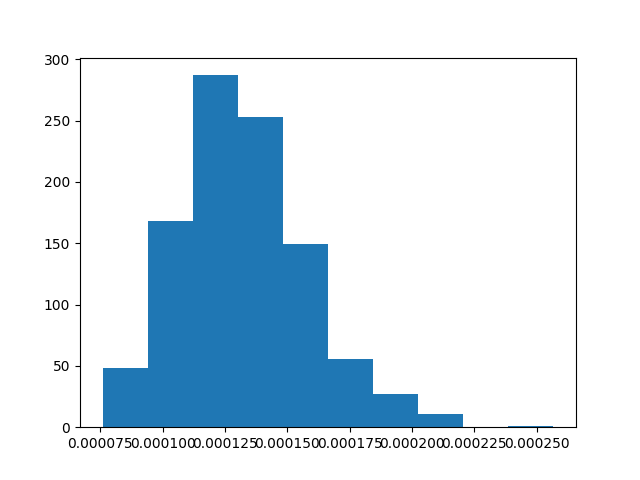
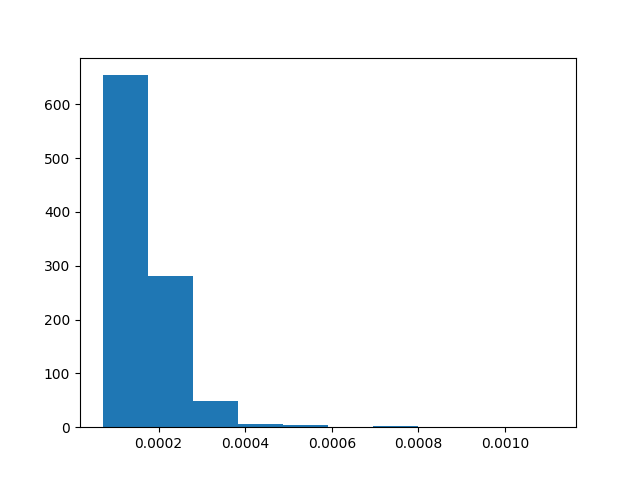
Added GPU acceleration. Increased the number of points. Visualizations are officially 🔥

diff --git a/main.py b/main.py
@@ -1,11 +1,10 @@
 from utils import *
 import matplotlib.pyplot as plt
 from functools import partial
-from multiprocessing import Pool
-import faiss 
 from indexing.faiss_utils import distance_to_centroid_faiss
-from indexing.faiss_indexers import DenseHNSWFlatIndexer
+from indexing.faiss_indexers import DenseFlatIndexer
 from tqdm import tqdm
+from scipy.stats import skew, kurtosis
 
 def generate_data(data_points=1000, dim=512, rotation_count=1, generate_function=get_hypersphere_points):
     # get hyper sphere points
@@ -42,7 +41,7 @@ def get_k_means_variance(data, k):
 if __name__ == '__main__':
 
     # constants
-    data_points = 10000
+    data_points = 1000000
     dim = 128
     cluster_count = 100
     rotation_count = 1
@@ -64,7 +63,7 @@ if __name__ == '__main__':
 
         def construct_faiss(interp):
             # create a faiss index from linear interpolation data data
-            indexer = DenseHNSWFlatIndexer()
+            indexer = DenseFlatIndexer()
             indexer.init_index(dim)
             # We need to associate each vector with a database id
             zipped_data = list(map(lambda x: x, zip(range(interp.shape[0]), list(interp))))
@@ -87,6 +86,7 @@ if __name__ == '__main__':
 
     for idx, var in enumerate(variances):
         # compute a histogram using matplotlib
+        print("Skew, kurtosis:", skew(var), kurtosis(var))
         plt.hist(var)
         plt.show()
         plt.savefig('graphs/variance_interp_' + str(idx) + '.png')

diff --git a/indexing/faiss_utils.py b/indexing/faiss_utils.py
@@ -1,10 +1,10 @@
 # This file is used to load faiss indexes and compute our variance metric
 
 from utils import get_hypersphere_points, compute_distances_from_centroid
-from indexing.faiss_indexers import DenseHNSWFlatIndexer
+from indexing.faiss_indexers import DenseFlatIndexer
 import numpy as np
 
-def distance_to_centroid_faiss(indexer : DenseHNSWFlatIndexer, query_points_amount = 1000, points_per_query = 100):
+def distance_to_centroid_faiss(indexer : DenseFlatIndexer, query_points_amount = 1000, points_per_query = 100):
     """
     Computes the variance on distance to centroid of a faiss index.
     :param index: faiss index
@@ -13,10 +13,11 @@ def distance_to_centroid_faiss(indexer : DenseHNSWFlatIndexer, query_points_amou
     :return: numpy array of shape (points, dim)
     """
     # gets probing points
-    query_points = np.float32(get_hypersphere_points(query_points_amount, indexer.index.d-1))
+    query_points = np.float32(get_hypersphere_points(query_points_amount, indexer.index.d))
 
     # sample the faiss index around each of these points
     _, indexes = indexer.search_knn(query_points, points_per_query)
+
     # get the points
     pts = list()
     # lets assume for now that pts is grouped by query points, although i am not sure that this is the case lol

diff --git a/indexing/faiss_indexers.py b/indexing/faiss_indexers.py
@@ -143,6 +143,10 @@ class DenseFlatIndexer(DenseIndexer):
         :param vector_sz: size of the vectors to index
         """
         self.index = faiss.IndexFlatIP(vector_sz)
+        
+        res = faiss.StandardGpuResources() # use a single GPU
+        self.index = faiss.index_cpu_to_gpu(res, 0, self.index)
+
 
     def index_data(self, data: List[Tuple[object, np.array]]):
         """
@@ -170,10 +174,8 @@ class DenseFlatIndexer(DenseIndexer):
         :return: list of tuples of (id, distance)
         """
         scores, indexes = self.index.search(query_vectors, top_docs)
-        # convert to external ids
-        db_ids = [[self.index_id_to_db_id[i] for i in query_top_idxs] for query_top_idxs in indexes]
-        result = [(db_ids[i], scores[i]) for i in range(len(db_ids))]
-        return result
+
+        return scores, indexes 
 
     def get_index_name(self):
         return "flat_index"
